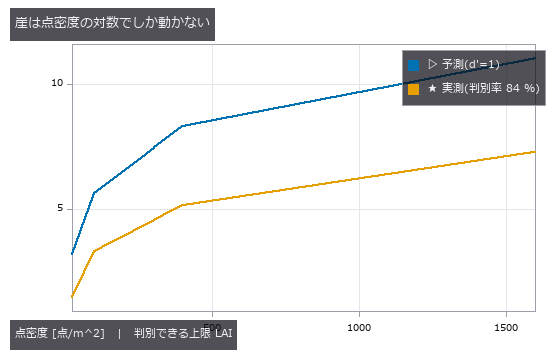
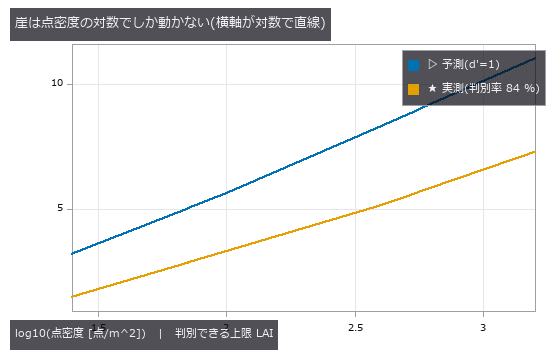
auto: poc_safety_clearance.py 編集前 (2026-09-08 01:47)

diff --git a/examples/poc_crop_phenotyping.py b/examples/poc_crop_phenotyping.py
@@ -647,10 +647,15 @@ def section_cliff(k_true):
                    xlabel="真の LAI [m^2/m^2]", ylabel="推定 LAI [m^2/m^2]",
                    title="植被率からの LAI は予測どおりの天井で止まる",
                    caption="重なりの枚数(遮蔽を無視して全部数えた場合)は真値に乗る。")
+    lg = list(np.log10(dens))
     figs.save_plot("cliff_density",
-                   [("予測(d'=1)", dens, pred_l), ("実測(判別率 84 %)", dens, meas_l)],
-                   xlabel="点密度 [点/m^2]", ylabel="判別できる上限 LAI",
-                   title="崖は点密度の対数でしか動かない")
+                   [("予測(d'=1)", lg, pred_l), ("実測(判別率 84 %)", lg, meas_l)],
+                   xlabel="log10(点密度 [点/m^2])", ylabel="判別できる上限 LAI",
+                   title="崖は点密度の対数でしか動かない(横軸が対数で直線)",
+                   caption="点密度を %.0f -> %.0f 点/m^2 と %.0f 倍にしても崖は"
+                           "%.2f -> %.2f にしか伸びない。"
+                           % (dens[0], dens[-1], dens[-1] / dens[0],
+                              meas_l[0], meas_l[-1]))
     return {"lai": lai_t, "cover": cover, "vis": vis, "layers": np.asarray(layers),
             "omega": omega, "pred_vis": pred_vis, "dens": dens,
             "pred_l": pred_l, "meas_l": meas_l, "k": k_true,

diff --git a/docs/SESSION_SUMMARY.md b/docs/SESSION_SUMMARY.md
@@ -3,49 +3,49 @@
 > 自動生成: `libexec/raptor-auto-summary` (Stop hook)
 > 次回 ccr 起動時に CLAUDE.md SESSION START で自動的に読み取られる。
 
-- **最終更新**: 2026-09-08 01:16:03
+- **最終更新**: 2026-09-08 01:46:38
 - **プロジェクト**: `C:/dev/projects/imgevolve`
 - **ブランチ**: `master`
 
 ## 直近の git log
 
 ```
-266a7f0ef PoC 2 本(庫内フロー / 設備の熱・振動・形状)+ CI の timeout と巻き順の相互参照
-e0e08e4f9 auto: poc_machine_condition_fusion.py 編集前 (2026-09-08 00:58)
-0e014fc03 auto: poc_warehouse_flow.py 編集前 (2026-09-08 00:58)
-a416a0ce4 auto: poc_warehouse_flow.py 編集前 (2026-09-08 00:57)
-f23c576bd auto: poc_machine_condition_fusion.py 編集前 (2026-09-08 00:56)
-d8ff45dd5 auto: poc_machine_condition_fusion.py 編集前 (2026-09-08 00:56)
-17c0a4be8 auto: poc_machine_condition_fusion.py 編集前 (2026-09-08 00:56)
-f0b86c638 auto: poc_warehouse_flow.py 編集前 (2026-09-08 00:56)
-7c442ebd1 auto: poc_warehouse_flow.py 編集前 (2026-09-08 00:55)
-dcdadd46c auto: poc_machine_condition_fusion.py 編集前 (2026-09-08 00:55)
+8a5131bec auto: poc_crop_phenotyping.py 編集前 (2026-09-08 01:46)
+f89e4cc05 auto: poc_safety_clearance.py 編集前 (2026-09-08 01:45)
+d7861d648 auto: poc_safety_clearance.py 編集前 (2026-09-08 01:45)
+6459022ef auto: poc_crop_phenotyping.py 編集前 (2026-09-08 01:45)
+bda0c8cfb auto: poc_safety_clearance.py 編集前 (2026-09-08 01:45)
+0b2f58d93 auto: poc_crop_phenotyping.py 編集前 (2026-09-08 01:45)
+82c2abea6 auto: poc_crop_phenotyping.py 編集前 (2026-09-08 01:45)
+89aa46fa6 auto: poc_safety_clearance.py 編集前 (2026-09-08 01:44)
+8c206a97a auto: poc_safety_clearance.py 編集前 (2026-09-08 01:44)
+1225bc713 auto: poc_safety_clearance.py 編集前 (2026-09-08 01:44)
 ```
 
 ## 現在の git status
 
 ```
-(clean)
+M examples/poc_crop_phenotyping.py
 ```
 
 ## 直近 2 時間に変更されたファイル
 
 ```
-01:13 .pytest_cache/v/cache/nodeids
-01:11 docs/SESSION_SUMMARY.md
-01:10 CHANGELOG.md
-01:10 .ruff_cache/0.16.0/13906884550158051618
-01:10 .ruff_cache/0.16.0/12943517194686254008
-01:05 docs/articles/fullseye_poc_museum_qiita_en.md
-01:05 docs/articles/exhibits/wingpoc.en.md
-01:05 docs/articles/fullseye_poc_museum_qiita_ja.md
-01:05 docs/articles/exhibits/wingpoc.ja.md
-01:05 docs/articles/assets/poc/poc_warehouse_flow/09_scene_layout_720.jpg
-01:05 docs/articles/assets/poc/poc_warehouse_flow/01_heat_ambiguity_720.jpg
-01:05 docs/articles/assets/poc/poc_machine_condition_fusion/02_thermal_maps_720.jpg
-01:05 docs/articles/assets/poc/poc_machine_condition_fusion/01_scene_machine_720.jpg
-01:05 fullseye/SENSOR_PLAYBOOK.md
-01:05 docs/SENSOR_PLAYBOOK.md
+01:46 examples/poc_crop_phenotyping.py
+01:46 docs/articles/assets/poc/poc_safety_clearance/figures.json
+01:46 docs/articles/assets/poc/poc_safety_clearance/14_scene_closest.png
+01:46 docs/articles/assets/poc/poc_safety_clearance/13_map_distance_slice.png
+01:46 docs/articles/assets/poc/poc_safety_clearance/12_scene.png
+01:46 docs/articles/assets/poc/poc_safety_clearance/11_zd_tradeoff.png
+01:46 docs/articles/assets/poc/poc_safety_clearance/10_zd_budget.tsv
+01:46 docs/articles/assets/poc/poc_safety_clearance/10_zd_budget.png
+01:46 docs/articles/assets/poc/poc_safety_clearance/10_zd_budget.csv
+01:46 docs/articles/assets/poc/poc_safety_clearance/09_grid_bias.tsv
+01:46 docs/articles/assets/poc/poc_safety_clearance/09_grid_bias.csv
+01:46 docs/articles/assets/poc/poc_safety_clearance/09_grid_bias.png
+01:46 docs/articles/assets/poc/poc_safety_clearance/08_metric_blindness.png
+01:46 docs/articles/assets/poc/poc_safety_clearance/07_map_visibility.png
+01:46 docs/articles/assets/poc/poc_safety_clearance/06_map_miss.png
 ```
 
 ---
